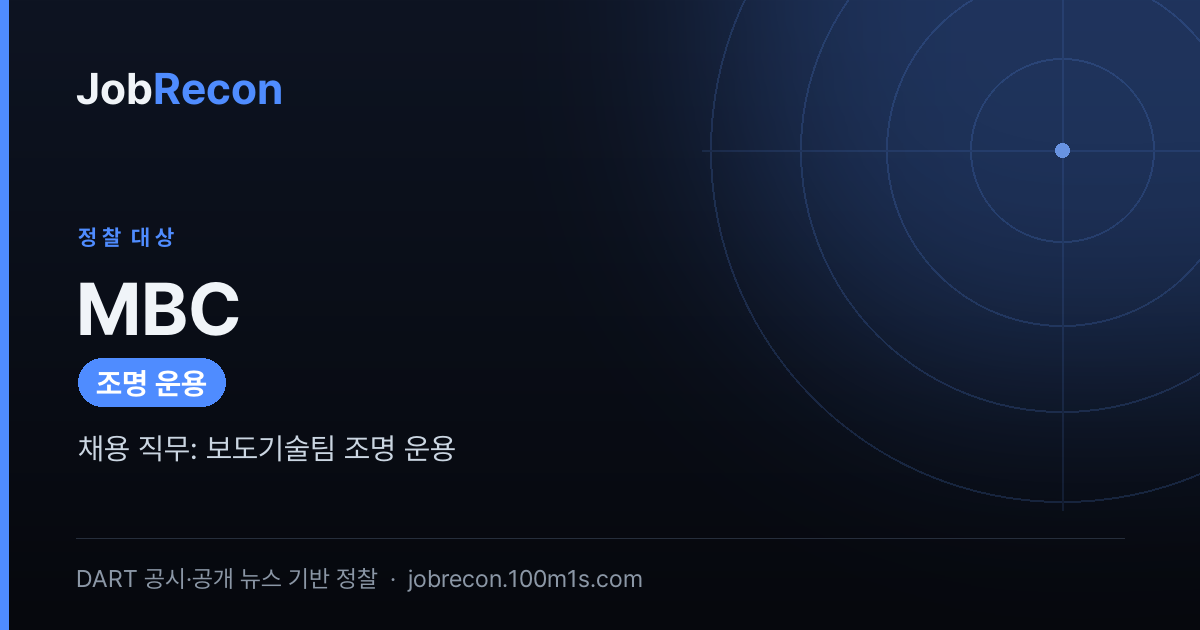
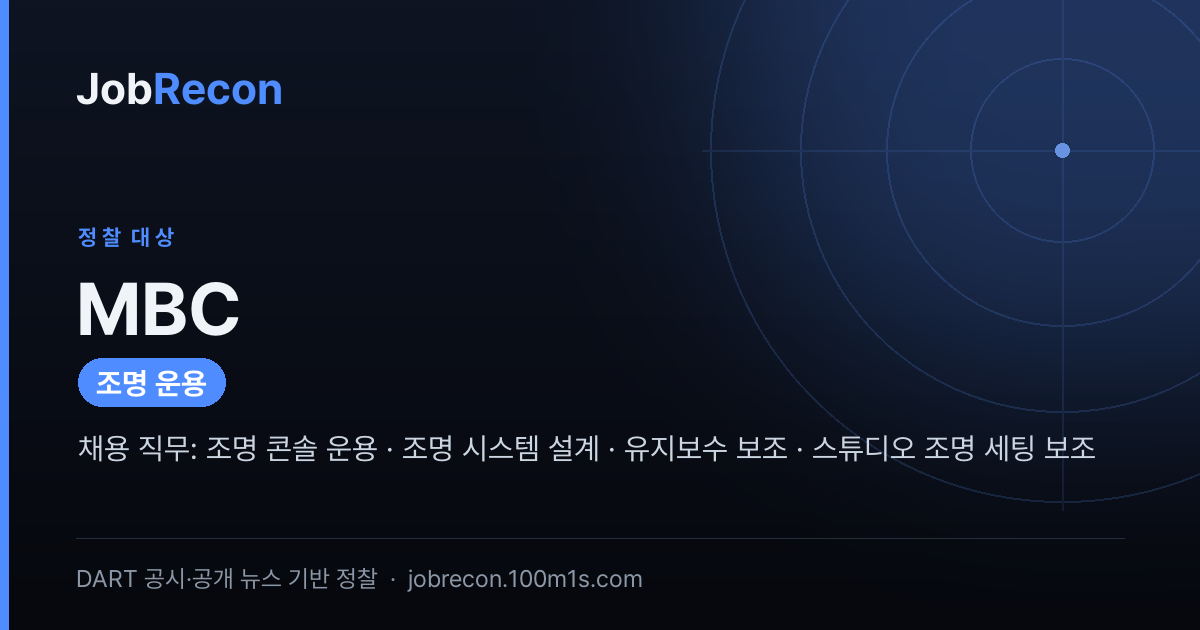
publish: 정찰 페이지 배치 발행 (Phase 2)

Changed region(s): [[0.1542, 0.6937, 0.6475, 0.754], [0.6783, 0.6937, 0.925, 0.754]]

diff --git a/r/mbc-조명-운용-202607.html b/r/mbc-조명-운용-202607.html
@@ -60,6 +60,9 @@ body{margin:0;background:#0b0e13;color:#e6edf3;font-family:-apple-system,BlinkMa
 .comment .cbody code{background:#0b0e13;border:1px solid #222a35;border-radius:5px;padding:1px 5px;font-size:13px}
 .comment .err{color:#ff6b6b}
 .comment .cta-app{display:inline-block;margin-top:8px;color:#4f8cff;font-weight:700;text-decoration:none}
+/* 공고 생존(P0-a): 마감 경고 배너 + D-day/상시 칩. */
+.deadbn{background:#2a1618;border:1px solid #5a2a2e;color:#ffb4b4;border-radius:10px;padding:11px 14px;margin:0 0 14px;font-size:13.5px;font-weight:600;line-height:1.5}
+.ddaybn{display:inline-block;background:#12161d;border:1px solid #2f6b3a;color:#7fe0a0;border-radius:999px;padding:3px 11px;margin:0 0 12px;font-size:12.5px;font-weight:700}
 </style>
 
 </head><body>
@@ -70,84 +73,104 @@ body{margin:0;background:#0b0e13;color:#e6edf3;font-family:-apple-system,BlinkMa
     <div class="meta"><span class="co">MBC</span><span class="fd">조명 운용</span><span class="ym">2026년 07월 정찰</span></div>
     <div class="ad">AD · 광고</div>
   </div>
+  <div class="ddaybn">D-15</div>
   <div id="report"><h2>공고 핵심 요건</h2>
-<p><strong>채용 직무</strong>: 보도기술팀 조명 운용</p>
+<p><strong>채용 직무</strong>: 조명 콘솔 운용 · 조명 시스템 설계·유지보수 보조 · 스튜디오 조명 세팅 보조</p>
 <ul>
-<li><strong>고용형태</strong>: 계약직 1년(평가 후 1년 연장 가능) — 정규직 공채가 아니라 <strong>기간제 계약</strong>이다. 이 한 줄이 이 공고의 성격을 규정한다.</li>
-<li><strong>핵심 업무</strong>: 조명 콘솔 운용(숙직 교대 근무) · 조명 시스템 설계·유지보수 보조 · 스튜디오 조명 세팅 보조. &quot;보조&quot;라는 단어가 반복 — 설계 주도가 아니라 <strong>운용·서포트 포지션</strong>.</li>
-<li><strong>우대(사실상 실질 요건)</strong>: 방송기술 조명 1년 이상 경력 / 지상파·관련방송사 조명 콘솔 운용 유경험자. 자격요건은 병역·국적·해외여행 결격 없음 정도로 낮지만, <strong>콘솔 운용 실무 경험이 사실상 당락을 가른다</strong>.</li>
-<li><strong>전형</strong>: 서류(7.27 발표) → 면접(7.29~31) → 실기·추가과제 가능 → 최종. 입사예정 8월 10일. <strong>실기 언급이 명시</strong>됐으니 콘솔 조작을 눈앞에서 시연할 준비가 필요하다.</li>
-<li><strong>연봉</strong>: &quot;경력·사내 기준 책정, 희망연봉 기재&quot; — 밴드 비공개. 지원서에 본인이 숫자를 써야 하므로 시장가·본인 경력 기준을 미리 정해두라.</li>
-</ul>
-<h2>회사 서사 · 궤적</h2>
-<p>MBC는 스타트업이 아니라 <strong>1961년 라디오로 개국한 주식회사형 공영방송사</strong>다. 지원자가 반드시 알아야 할 것은, 이 회사의 정체성이 &quot;창업자의 비전&quot;이 아니라 <strong>정치 격변에 휩쓸린 소유 이전</strong>에서 시작됐다는 점이다.</p>
-<ul>
-<li><strong>뿌리</strong>: 1959년 부산문화방송(김상용·정환옥) → 1961년 서울에서 김지태가 서울민간방송→한국방송(HBC)→라디오서울→한국문화방송으로 사명을 바꿔가며 라디오 개국(1961.12.2).</li>
-<li><strong>결정적 전환(1962)</strong>: 김지태가 5·16 군사정변 후 부정축재자로 적발돼 <strong>한국문화방송·부산문화방송·부산일보 전 재산을 5·16장학회(현 정수장학회)에 헌납</strong>. 창업자 비전이 아니라 <strong>국가 권력에 의한 소유 이전이 DNA</strong>에 박혔다. 이후 60여 년 지배구조 논쟁은 전부 이 태생에서 비롯한다.</li>
-<li><strong>TV 개국(1969.8.8)</strong>: 정동사옥에서 MBC TV 개국, 상업광고방송 개시. 1971 FM 개국, 《새엄마》 등 드라마로 1974년 TBC 추월.</li>
-<li><strong>정치에 휘둘린 구조 확립</strong>: 1974 박정희 지시로 경향신문과 통합 → 주식회사 문화방송·경향신문 / 1980 언론통폐합·주식 KBS 귀속·컬러방송 / 1981 언론기본법으로 경향신문과 분리·독립 방송체제 / 1982 여의도 사옥.</li>
-<li><strong>현 지배구조 확립(1988.12.26)</strong>: 방송문화진흥법 제정 — <strong>주식 70%를 방송문화진흥회(방문진)가 관리</strong>. 이게 지금의 소유 골격이다.</li>
-<li><strong>상장·디지털</strong>: 2005 종목코드 052220 부여·DMB 개국 / 현재 상암 글로벌미디어센터 본사(일산 드림센터 별도).</li>
-</ul>
-<p><strong>최근 방향(면접 인용 재료)</strong>: 전략 축은 &quot;지상파 광고 쇠퇴 → 글로벌 콘텐츠·FAST 전환&quot;으로 명확하다.</p>
-<ul>
-<li>《피지컬 100》을 넷플릭스에 공급해 공중파를 넘은 글로벌 히트를 실증.</li>
-<li>디즈니+ 오리지널 《킬러들의 쇼핑몰》을 시즌2 직전 지상파 특선으로 확보(2026.7).</li>
-<li>2026년 칸 국제 시리즈 페스티벌에서 《21세기 대군부인》 투자설명회 참가.</li>
-<li>2026.6 방미통위·삼성·LG·방송사 9개사 <strong>K-FAST 간담회 참여</strong>(FAST 시장 2025년 18조→2030년 47조, CAGR 20.9% 전망).</li>
-</ul>
-<p><strong>판정</strong>: 궤적 자체는 탄탄하다(지상파 지위·60년 IP·글로벌 흥행 실증). 다만 정체성 슬로건은 &quot;품격있는 젊은 방송&quot;(2017)→&quot;새로움을 탐험하다&quot;(2018~20)→&quot;만나면 좋은 친구&quot; 회귀(2022~)로 <strong>정권·경영진 교체마다 재설정</strong>되는 패턴이다. 원류 슬로건 &quot;만나면 좋은 친구&quot;만이 수십 년 관통 — 이게 실질 정체성 앵커다. 전략은 있으나 FAST·글로벌 세일즈는 아직 파일럿·설명회 단계로 <strong>실행 초기</strong>임을 냉정히 봐야 한다.</p>
-<h2>실체 점검 · 숨은 리스크 · 실질 보상</h2>
-<p><strong>자산 기반 안정성(고용 안정성의 토대)</strong>: MBC의 체력은 두껍다.</p>
-<ul>
-<li><strong>부동산</strong>: 상암 글로벌미디어센터 본사 + 일산 드림센터 — 자체 사옥·스튜디오 인프라 보유.</li>
-<li><strong>콘텐츠 IP</strong>: 60년 축적 드라마·예능 판권(《대장금》《피지컬 100》 등), 글로벌 세일즈 가능한 라이브러리.</li>
-<li><strong>주파수·지상파 지위</strong>: 방송문화진흥법으로 뒷받침되는 지상파 방송 인허가 — 진입장벽 자체가 자산.</li>
-<li><strong>자회사</strong>: MBC C&amp;I, MBC아트, MBC플러스, 아이엠비씨, MBC아카데미, MBC플레이비.</li>
-</ul>
-<p>→ 자산이 두꺼워 불황·적자에도 쉽게 무너지지 않는 체력. <strong>다만 이건 정규직 조직의 안정성이고, 이 공고는 1년 계약직</strong>이라 회사 체력이 곧 본인 고용 안정으로 직결되지 않는다는 점을 명확히 구분하라.</p>
-<p><strong>실질 보상 · 복리후생(공개 근거)</strong>:</p>
-<ul>
-<li><strong>연봉 밴드 비공개</strong> — 계약직·경력 책정이라 사내 기준에 따름. 정규직 처우와는 별개 트랙으로 봐야 한다.</li>
-<li><strong>공개 평점</strong>: 블라인드 3.2(커리어 3, 워라밸 3.6, 급여 3) / 잡플래닛 2.8(워라밸 3, 복지·급여 2.4, 사내문화·승진 2.6). &quot;다닐 만한 보통 직장&quot; 수준이며 <strong>급여·승진 만족도가 상대적 약점</strong>. 이 평점은 정규직 기준일 가능성이 크고, 계약직 처우는 별도 확인 필요.</li>
-<li><strong>정규직 보상 참고치</strong>: 뉴스에 등장한 한 아나운서 사례에서 &quot;성과급&quot;·연차별 처우 언급이 있으나, 이는 아나운서직 개인 사례이자 회사 지표가 아니므로 <strong>조명 운용 계약직 처우로 오용 금지</strong>. 실질 처우는 지원서 희망연봉·면접에서 직접 확인.</li>
-</ul>
-<p><strong>숨은 리스크</strong>:</p>
-<ul>
-<li><strong>최대 변수 — 지배구조·정권 리스크</strong>: 대주주 방문진 이사가 정치적으로 임명되는 구조라 <strong>사장·경영진이 정권 교체마다 교체</strong>된다. &quot;언론 독립&quot;은 제도상 설계지 실제 보장이 아니다. 다만 조명 운용 같은 기술직은 편성·보도 방향 논란의 직접 영향권 밖이라 정치 리스크 체감은 상대적으로 낮다.</li>
-<li><strong>광고 매출 하락 압박</strong>: 지상파 광고 시장 축소는 업계 공통 리스크. MBC 매출·영업이익·광고 감소폭 수치는 미확인 — <strong>면접에서 보도기술 부문 예산·인력 계획을 확인</strong>하라. 광고 쇠퇴가 구조조정으로 번지면 <strong>계약직이 가장 먼저 흔들리는 자리</strong>다.</li>
-<li><strong>노조 강세</strong>: 언론노조 MBC본부가 교섭대표노조로 영향력이 크다. 입사 후 노사구조 이해가 필수이나, 계약직은 노조 보호 밖일 수 있다.</li>
-</ul>
-<p><strong>한 걸음 더 — 사업 구조상 진짜 위험/해자</strong>: MBC의 해자는 지상파 지위·60년 IP·자체 인프라다. 그러나 진짜 포식자는 KBS·SBS가 아니라 <strong>넷플릭스 등 OTT/FAST</strong>로, 지상파가 최상위 포식자에서 제작·공급자로 밀리는 중이다. 조명 운용 직무 관점에선 <strong>스튜디오·콘솔 인프라가 유지되는 한 수요는 존재</strong>하나, 계약직 연장 여부는 회사 실적·부문 예산에 종속된다. → <strong>무엇이 확인되면 판단이 바뀌나</strong>: 보도기술 부문의 최근 3년 인력 증감·계약직 정규직 전환 사례가 확인되면 이 자리의 실질 안정성이 크게 명확해진다.</p>
-<h2>산업·시장·경쟁 지형</h2>
-<ul>
-<li><strong>산업 규모·성장성 — 양면</strong>: 전통 지상파 광고 시장은 <strong>정체·축소</strong>하는 파이다. 반대로 MBC가 진입 중인 FAST 시장은 2025년 18조→2030년 47조(CAGR 20.9%)로 <strong>커지는 파이</strong>. 문제는 MBC가 아직 후자에서 실질 매출을 증명하지 못했다는 것. → 지원자에겐 &quot;안정적 대형 방송사이나 성장 동력은 전환 진행형&quot;이라는 이중 신호.</li>
-<li><strong>실질 순위·지위</strong>: 지상파 3사(KBS·SBS)와의 <strong>과점 구도 안 강자</strong>. 《피지컬 100》 넷플릭스 흥행처럼 글로벌 세일즈 실적을 낸 몇 안 되는 지상파. 다만 전체 콘텐츠 시장으로 넓히면 OTT에 밀리는 <strong>팔로워</strong>로 재편 중.</li>
-<li><strong>경쟁사·격차</strong>: 전통 경쟁은 KBS(수신료 기반, 더 안정적 재원)·SBS(민영). 재원 구조상 MBC는 <strong>광고 의존도가 높아 경기·정권에 더 민감</strong>하다. 실질 위협은 넷플릭스·디즈니+ 같은 글로벌 OTT — MBC는 이들에 콘텐츠를 공급하며 공생하되, 플랫폼 주도권은 내준 형국. 격차 방향은 플랫폼 권력이 OTT로 <strong>벌어지는 중</strong>.</li>
-<li><strong>시장 구조</strong>: 지상파는 소수 지배 과점 → <strong>강자에 속하면 든든하나 혁신·성장은 둔화</strong> 위험. 방송기술·조명 같은 인프라 직무는 이 과점 구조 덕에 수요가 안정적으로 유지된다는 게 지원자에겐 오히려 플러스.</li>
-<li><strong>정성 판정</strong>: MBC는 <strong>전통 시장에선 이기는 쪽(과점 강자), 새 시장에선 아직 밀리는 쪽(OTT 하위 공급자)</strong>이다. 발목은 광고 의존 재원과 정권 종속 지배구조, 해자는 지상파 지위·IP·자체 스튜디오. → 조명 운용 직무 관점에선 <strong>회사가 완전히 흔들릴 산업은 아니되, 계약 연장은 부문 예산에 달렸다</strong>. 면접에서 &quot;보도기술 부문의 FAST·글로벌 제작 확대가 스튜디오 인력 수요로 이어지는가&quot;를 물으면 산업 이해를 증명할 수 있다.</li>
-</ul>
-<h2>경영진 · 투자자·소유 구조</h2>
-<ul>
-<li><strong>대표</strong>: 사장 <strong>안형준</strong>. 방문진이 선임·감시하는 구조라 사장 임기는 <strong>방문진 이사회 구성(=정치 지형)에 연동</strong>된다.</li>
-<li><strong>C레벨·핵심 임원</strong>: 콘텐츠총괄부사장 등 개인 이름·배경은 공개 정보 미확인 — 면접 확인 대상.</li>
-<li><strong>방문진 이사 구성의 최근 동향(면접 인용 재료)</strong>: MBC 시청자위 몫 방문진 이사 후보로 강형철(숙명여대 미디어학부 교수), 김경달(블루닷AI 공동 창업자), 김영희(전 한겨레 편집인), 노영란(매비우스 사무국장), 신종원(전 한국소비자분쟁조정위원장), 윤순진(서울대 환경대학원장), 이규정(경기대 미디어영상학과) 등이 거론됐다. 이 이사회가 사장·경영 방향을 결정하는 상위 구조다.</li>
-<li><strong>소유·지배 구조</strong>: 개인 대주주 없음. <strong>방송문화진흥회 70% + 정수장학회 30%</strong>. 방문진은 방송문화진흥법에 근거한 비영리 공적 재단이다.</li>
-<li><strong>의미</strong>: 벤처식 &quot;투자자 회수 vs 창업자 비전&quot; 긴장이 없다. 대신 <strong>광고 매출 하락 압박 vs 공영방송 콘텐츠 책무</strong>의 긴장, 그리고 <strong>정권 교체 → 방문진 이사 교체 → 사장 교체</strong>의 정치 사이클이 최대 변수다.</li>
-<li><strong>체력</strong>: 배당·엑싯 압력이 없어 안정적이나, 광고 자립이 핵심이라 광고 시장 축소가 곧 경영 압박. 재무 수치는 미공개 → <strong>면접에서 최근 실적·부문 예산 확인</strong>.</li>
-<li><strong>정렬 인사이트</strong>: 경영진이 그리는 미래(&quot;글로벌 미디어 그룹·FAST 전환&quot;)와 소유 구조가 시사하는 방향(&quot;공영성·정치 중립·광고 자립&quot;)은 <strong>긴장 관계</strong>다. 상업적 생존과 공적 사명이 한 몸에 얹혀 있고, 그 위에 정권 사이클이 얹힌다. → <strong>계약직 기술직 지원자에게 실질 시그널</strong>: 이 정치·재원 긴장은 편성·보도직을 흔들지 조명 운용 실무를 직접 흔들진 않는다. 다만 광고 압박이 커지면 계약직 규모가 조정 1순위이므로, <strong>본인 가치는 &quot;정치와 무관한 콘솔 운용 숙련&quot;으로 증명하는 게 가장 안전한 포지셔닝</strong>이다.</li>
-</ul>
-<h2>용어 · 개념 풀이</h2>
-<ul>
-<li><strong>FAST (Free Ad-supported Streaming TV)</strong> — 광고 기반 무료 실시간 스트리밍 TV. MBC가 지상파 광고 쇠퇴를 대체할 성장 축으로 참여 중인 시장(2030년 47조 전망).</li>
-<li><strong>방송문화진흥회(방문진)</strong> — 방송문화진흥법에 근거해 MBC 주식 70%를 관리하는 비영리 공적 재단. 사장 선임·감시권을 가진 실질 지배주체이며, 이사 구성이 정치 지형에 연동된다.</li>
-<li><strong>정수장학회</strong> — 5·16장학회의 후신으로, 1962년 김지태 재산 헌납으로 MBC 지분을 갖게 된 재단. 현재 MBC 지분 30% 보유.</li>
-<li><strong>조명 콘솔</strong> — 스튜디오 조명을 통합 제어하는 조작 장비. 이 공고의 핵심 실무이자 실기시험 대상.</li>
-<li><strong>주식회사형 공영방송</strong> — 상법상 주식회사 형태이나 공적 재단이 지배하는 구조. 광고로 운영하되 공영성 의무를 지는 MBC 특유의 이중 성격.</li>
-<li><strong>CAGR (연평균 성장률)</strong> — 여러 해에 걸친 평균 성장 속도. FAST 시장 20.9%는 빠른 성장 산업임을 뜻한다.</li>
+<li><strong>고용 형태</strong>: 계약직 1년, 평가 후 1년 연장 가능 (공고 명시). 정규직 전환 언급이 없다는 점이 핵심 — &quot;연장 가능&quot;까지가 회사가 약속한 상한선입니다.</li>
+<li><strong>근무 형태</strong>: 조명 콘솔 운용에 <strong>숙직 교대 근무</strong> 포함 (공고 명시). 보도(뉴스) 스튜디오는 밤·새벽 방송이 있어 야간 상주가 상수라는 뜻입니다.</li>
+<li><strong>필수 자격</strong>: 병역필/면제, 대한민국 국적자, 해외여행 결격사유 없음 (공고 명시). 직무 기술요건이 아닌 신원·결격 조건만 필수로 걸린 점이 특이 — 즉 <strong>경력·자격증을 필수로 잠그지 않았습니다</strong>.</li>
+<li><strong>우대</strong>: 방송기술 조명 1년 이상 경력, 지상파·관련방송사 <strong>조명 콘솔 운용 유경험</strong>, 취업보호대상자·장애인 (공고 명시). 실무의 무게중심은 &#x27;콘솔 운용 경험&#x27;에 있습니다.</li>
+<li><strong>연봉</strong>: 경력·사내 기준에 따라 책정, <strong>지원서에 희망연봉 기재</strong> (공고 명시) — 밴드가 공개되지 않아 본인이 먼저 숫자를 던져야 하는 구조입니다.</li>
 </ul>
 <p>---</p>
-<p><strong>한 줄 요약</strong>: MBC 자체는 자산·지위가 두꺼운 대형 공영방송이나, 이 공고는 <strong>1년 계약직 조명 운용</strong>이라 회사 체력이 곧 본인 안정으로 직결되지 않는다. 콘솔 운용 실무 경력(실기)이 당락을 가르며, 정치·재원 리스크는 기술직 체감이 낮은 대신 <strong>광고 압박 시 계약직 조정 위험</strong>이 실질 변수다. 면접에선 ①계약직 정규직 전환·연장 실적 ②보도기술 부문 예산·인력 계획 ③계약직 처우(연봉 밴드)를 반드시 확인하라.</p></div>
+<h2>회사 서사 · 궤적</h2>
+<p>MBC(문화방송)는 스타트업식 &quot;페인포인트 해결&quot;로 태어난 회사가 아니라, <strong>한국 방송사(史)의 정치적 굴곡 그 자체</strong>로 출발한 조직입니다. 뿌리는 두 갈래입니다.</p>
+<ul>
+<li><strong>1959년 4월 15일</strong>, 개인사업가 김상용과 방송기술자 정환옥이 한국 최초의 상업 라디오 <strong>부산문화방송</strong>을 개국했습니다(계열 최초 방송국).</li>
+<li><strong>1961년</strong>, 김지태가 서울에서 &#x27;서울민간방송&#x27;을 세운 뒤 한국방송(HBC)→라디오서울→한국문화방송으로 사명을 바꿔 12월 2일 라디오를 개국했습니다. 그러나 김지태는 <strong>5·16 군사정변 후 부정축재자로 적발돼 1962년 한국문화방송·부산문화방송·부산일보 전 재산을 5·16장학회(현 정수장학회)에 헌납</strong>했습니다.</li>
+</ul>
+<p>즉 창업 서사의 핵심은 &quot;민간 상업방송으로 태어났으나 정권에 의해 소유구조가 강제로 재편된 역사&quot;입니다. 지원자 관점에서 이 회사의 정체성·리스크는 시장 경쟁이 아니라 <strong>정치·지배구조에 뿌리를 둔다</strong>는 뜻입니다. 창업자 개인의 비전이 조직 DNA로 이어지는 구조가 아닙니다.</p>
+<p><strong>연혁의 전환점</strong>(계기 → 무엇이 바뀌었나):</p>
+<ul>
+<li><strong>1969.8.8 TV 개국</strong>(상업광고방송 실시): 라디오 사업자에서 종합 방송사로 전환. 이후 1971년 FM 개국, 《새엄마》 등 드라마 히트로 시청률 우위를 잡았습니다.</li>
+<li><strong>1974년</strong>, 박정희 지시로 경향신문과 통합 → &#x27;문화방송·경향신문&#x27; — 정권 개입이 소유·조직을 직접 재편한 사건.</li>
+<li><strong>1980년 언론통폐합</strong>: 대기업 지분 회수, KBS가 주식 관리, 컬러방송 시작. 이 시점에 <strong>민영 → 공영으로 전환</strong>됐습니다.</li>
+<li><strong>1988.12.26 방송문화진흥법 제정 → 방송문화진흥회(방문진)가 주식 70% 관리</strong>: 오늘날의 지배구조가 여기서 확립됐습니다. 이것이 MBC를 이해하는 뼈대입니다.</li>
+<li><strong>상암 시대</strong>: 서울 마포구 상암동 글로벌미디어센터로 본사 이전(이번 조명 직무의 물리적 근무지가 될 가능성이 높은 곳). 일산에 MBC 드림센터 별도 보유.</li>
+<li><strong>2020년대 OTT 대응</strong>: <strong>《피지컬 100》을 제작해 넷플릭스에 공급</strong>하며 공중파를 넘어 글로벌 히트를 냈고, <strong>《21세기 대군부인》으로 2026년 4월 칸 국제 시리즈 페스티벌 투자설명회</strong>에 참가했습니다.</li>
+</ul>
+<p><strong>미션·비전의 일관성</strong>: 사시(자유·책임·품위·단합)는 <strong>2018년 이후 홈페이지에서 사라졌고</strong>, 현재는 Vision &quot;콘텐츠 중심의 글로벌 미디어 그룹&quot;, Mission &quot;상상력과 창의성으로 시청자의 삶을 더 풍성하게&quot;, Values(시청자 first·창의성·공정성·공영성)를 내겁니다. 슬로건은 &quot;만나면 좋은 친구&quot;(2022~현재)로 회귀했으나, 연중 캠페인 문구는 거의 매년 바뀝니다(2018 &quot;다시 좋은 친구&quot; → 2021 &quot;GO! MBC&quot; → 2025 &quot;평화와 미래&quot; → 2026 &quot;사람이 소중한 사회&quot;). <strong>정권·사장 교체마다 톤이 흔들려 온 흔적</strong>입니다.</p>
+<p><strong>판정</strong>: 궤적은 버즈워드 나열이 아니라 인과가 분명한 서사입니다. 다만 그 인과의 동력이 시장(제품·경쟁)이 아니라 <strong>정치·제도</strong>라는 점이 이 회사의 본질입니다. &quot;콘텐츠 중심 글로벌 미디어 그룹&quot;이라는 상업적 비전과 &quot;공영성&quot;이라는 정체성이 <strong>한 문장 안에 병존</strong>하는 근본 긴장이 그대로 서사에 박혀 있습니다.</p>
+<p>---</p>
+<h2>실체 점검 · 숨은 리스크 · 실질 보상</h2>
+<p><strong>검증된 실적</strong></p>
+<ul>
+<li>✅ <strong>《피지컬 100》 넷플릭스 공급</strong> — 공중파를 넘어선 글로벌 흥행 실증. 지상파 콘텐츠가 OTT에서 통한다는 걸 보여준 대표 레퍼런스입니다.</li>
+<li>✅ <strong>독립적 지배구조 모델</strong> — YTN 정상화 논의에서 &quot;가장 완벽하고 독립적인 지배구조는 MBC 모델&quot;로 외부 인용될 만큼 제도적으로 정착.</li>
+<li>⚠️ <strong>글로벌 미디어 그룹 비전</strong> — 칸 투자설명회는 &#x27;참가·발표&#x27; 단계일 뿐, 실제 회수·수출 규모는 미확인(지향에 머묾).</li>
+<li>⚠️ <strong>FAST(광고 기반 무료 실시간 TV) 신사업</strong> — 2026년 방미통위 &#x27;K-FAST 생태계&#x27; 간담회에 KBS·SBS 등과 함께 9개 방송사 중 하나로 참여했으나, 전용 콘텐츠·수익화는 파일럿 이전 수준입니다.</li>
+</ul>
+<p><strong>재무 상태(방향)</strong>: MBC는 시청료(수신료)를 받지 않고 <strong>전액 광고 수익으로 운영</strong>하는 구조입니다. 이것이 이 회사의 재무를 이해하는 결정적 열쇠입니다 — KBS와 달리 안정적 수신료 방패가 없어, <strong>지상파 광고 시장이 축소되는 국면에서 재무 압박에 직접 노출</strong>됩니다. 구체 매출·손익 수치는 공개 근거로 확인되지 않아 <strong>면접에서 반드시 확인</strong>해야 합니다(적자 여부·구조조정 신호). 다만 방문진 70% 지배의 공적 소유구조 특성상, 완전 도산 리스크보다는 <strong>인건비·비정규 규모 조정 압박</strong>으로 나타날 가능성이 큽니다 — 이 직무가 계약직이라는 점과 직결되는 대목입니다.</p>
+<p><strong>자산 기반 안정성(고용 안정성의 토대)</strong></p>
+<ul>
+<li><strong>부동산·인프라</strong>: 서울 상암동 글로벌미디어센터(본사 사옥), 일산 MBC 드림센터 — 자체 사옥·스튜디오·방송설비라는 두꺼운 유형자산을 보유. 조명 콘솔·스튜디오 설비 자체가 이 직무의 일터입니다.</li>
+<li><strong>콘텐츠·IP·판권</strong>: 수십 년 축적된 드라마·예능 라이브러리와 《피지컬 100》 같은 신규 IP. 글로벌 유통으로 현금화 여지가 있는 자산입니다.</li>
+<li><strong>라이선스·주파수</strong>: 지상파 방송 면허·주파수라는 <strong>진입장벽 자체가 자산</strong>입니다. 이 인허가는 신규 사업자가 복제할 수 없습니다.</li>
+<li><strong>계열 지분</strong>: MBC C&amp;I, MBC아트, MBC플러스, 아이엠비씨, MBC아카데미, MBC플레이비 등 계열사.</li>
+<li>해석: 자산은 두껍습니다 → <strong>불황·적자에도 회사가 소멸하지 않고 버티는 체력</strong>은 있습니다. 그러나 그 체력이 <strong>계약직 개인의 재계약·정규직 전환까지 보장하지는 않습니다</strong>. 회사는 살아남되, 조정의 칼날은 비정규·계약 인력에 먼저 닿는 구조라는 점을 분리해서 봐야 합니다.</li>
+</ul>
+<p><strong>실질 보상 · 복리후생</strong></p>
+<ul>
+<li>이번 공고는 <strong>연봉 밴드 비공개 + 희망연봉 자기 기재</strong> 방식입니다. 즉 회사 내부 기준은 있으나 지원자에게 먼저 노출하지 않습니다. <strong>본인 시장가를 조사해 희망 숫자를 방어할 근거(경력·콘솔 기종 경험)를 준비</strong>하는 것이 실전 대응입니다.</li>
+<li>정규직 아나운서·직군의 처우는 공개 일화상 대기업 반도체와 비교될 만큼 낮지 않다는 언급이 돌지만(정규직 기준), 이는 <strong>계약직 조명 운용 직무와는 처우 체계가 다른 정규직 이야기</strong>이므로 개인 기대치로 오용하면 안 됩니다.</li>
+<li>회사 전반 보상수준·복지(재택·성과급·주거지원 등)의 공개 수치는 신뢰할 근거가 확인되지 않아 <strong>&quot;확인 필요&quot;</strong> — 특히 계약직 처우, 숙직 수당·야간 근무 보상 체계는 면접에서 직접 물어야 합니다.</li>
+</ul>
+<p><strong>숨은 리스크</strong></p>
+<ul>
+<li><strong>정치·지배구조 리스크(구조적)</strong>: 사장이 방문진에 의해 선임되는 임명직이라, <strong>정권 교체마다 최고경영진·편성 방향이 흔들립니다</strong>. 실제로 &#x27;MBC 블랙리스트 의혹&#x27;(최승호 전 사장 항소심 벌금형), 경남MBC PD의 &#x27;무섭노&#x27; 발언 논란, 언론노조 대 제3노조 갈등 등 정치·노사 관련 소음이 상시 존재합니다. 조명 운용 같은 기술 직무는 편성·보도 정치와 직접 연결되진 않지만, <strong>회사 전체의 예산·인력 정책이 정치 주기에 종속</strong>된다는 점은 계약 연장에 간접 영향을 줍니다.</li>
+<li><strong>광고 의존 + OTT 잠식(사업 구조)</strong>: 수신료 없이 광고로만 버는데, 시청·광고 기반이 넷플릭스 등 OTT로 이탈하고 있습니다. 파이가 줄면 비정규 인력이 먼저 압박받습니다.</li>
+<li><strong>계약직 특성</strong>: &quot;1년 + 평가 후 1년 연장&quot;이 상한선이며 정규직 전환 경로가 공고에 없습니다. 이건 리스크라기보다 <strong>처음부터 명확히 설정해야 할 기대치</strong>입니다.</li>
+</ul>
+<p><strong>사업 구조상 진짜 위험/해자</strong>: MBC의 해자는 <strong>지상파 면허·주파수·자체 스튜디오라는 복제 불가 인프라</strong>입니다(신규 진입 불가). 반면 진짜 위험은 <strong>수익 엔진이 광고 단 하나</strong>라는 점 — 규모가 커진다고 마진이 개선되는 구조가 아니라, 광고 파이 자체가 OTT로 새는 구조입니다. 이 위험이 완화되려면 글로벌 콘텐츠 판매·FAST 수익화가 실제 매출로 잡혀야 하는데, 아직 지향 단계입니다. <strong>면접에서 광고 매출 추세와 신사업 매출 기여를 확인하면 이 판단의 확신도가 올라갑니다.</strong></p>
+<p>---</p>
+<h2>산업·시장·경쟁 지형</h2>
+<p><strong>산업 규모·성장성</strong>: MBC가 속한 전통 지상파 방송·광고 시장은 <strong>정체·축소</strong> 국면입니다. 시청·광고가 OTT로 이동하고 있기 때문입니다. 반면 회사가 새로 노리는 <strong>FAST(광고 기반 무료 실시간 TV) 시장은 2025년 18조원 → 2030년 47조원(연평균 20.9%) 성장</strong>이 전망되는 파이입니다. 즉 <strong>본진(지상파 광고)은 줄고, 신전장(FAST·글로벌 콘텐츠)은 커지는</strong> 이중 구조입니다. 지원자에게 이것은 — 회사가 성장 산업에 올라타려 하지만 <strong>아직 본진 축소 속도가 신사업 성장보다 빠른 과도기</strong>라는 뜻이며, 이 과도기에 비용(특히 비정규 인건비)이 압박받기 쉽다는 신호입니다. 다만 FAST의 SAM·SOM(MBC가 실제 가져갈 유효·현실 몫)은 근거로 특정되지 않아 <strong>확인 필요</strong>입니다.</p>
+<p><strong>이 회사의 실질 순위·지위</strong>: 지상파 3사(KBS·MBC·SBS)의 한 축으로, <strong>레거시 방송에서는 확고한 상위 플레이어</strong>입니다. 콘텐츠 경쟁력으로는 《피지컬 100》(넷플릭스), 《유부녀 킬러》(공효진 15년 만의 MBC 복귀 금토드라마), 《킬러들의 쇼핑몰》 특선 편성 등 <strong>드라마·예능 IP 파워는 여전히 살아 있습니다</strong>. 그러나 광고·시청 점유의 절대량 순위는 OTT 포함 시 밀리는 방향입니다.</p>
+<p><strong>주요 경쟁사·경쟁제품과 격차</strong></p>
+<ul>
+<li><strong>직접 경쟁</strong>: KBS·SBS(지상파). KBS는 수신료라는 안정적 방패가 있어 MBC보다 재무 방어력이 구조적으로 강합니다 — MBC의 광고 100% 의존이 상대적 약점입니다.</li>
+<li><strong>확장 경쟁</strong>: JTBC 등 종편.</li>
+<li><strong>최상위 위협</strong>: <strong>넷플릭스·디즈니+ 등 OTT</strong>. &quot;공중파를 뛰어넘어 콘텐츠 시장 최상위 포식자&quot;가 된 OTT에 광고·시청 기반을 잠식당하는 구조이며, 격차는 <strong>좁혀지기보다 벌어지는 방향</strong>입니다. 다만 MBC는 그 OTT에 콘텐츠를 <strong>공급하는 파트너</strong>이기도 해서(피지컬 100 넷플릭스, 킬러들의 쇼핑몰 디즈니+ 확보), 순수 적대 관계라기보다 <strong>적이자 유통 채널</strong>이라는 이중성이 있습니다.</li>
+</ul>
+<p><strong>시장 구조</strong>: 지상파는 소수(3사) 과점 구조입니다. 구직자 양면으로 보면 — 과점이라 <strong>강자에 속하면 브랜드·인프라 안정성</strong>이 있으나, <strong>정체·혁신 둔화</strong>와 정치 종속이라는 그늘이 함께 옵니다.</p>
+<p><strong>정성 판정</strong>: MBC는 <strong>레거시 지상파에서는 이기는 쪽, 미래 콘텐츠 시장에서는 밀리지 않으려 분투하는 쪽</strong>입니다. 해자는 면허·인프라·IP 제작력, 발목은 <strong>광고 단일 수익원 + 정치 종속 + OTT 잠식</strong>입니다. 이 직무(조명 운용)는 방송 제작 인프라의 물리적 토대에 붙는 일이라, 회사가 방송 제작을 지속하는 한 <strong>직무 자체의 수요는 유지</strong>됩니다 — 다만 계약직이라 그 수요가 정규직 자리로 이어지느냐는 별개입니다. <strong>면접에서 &quot;조명 운용 인력의 정규직 전환 사례·재계약률&quot;과 &quot;제작 물량(스튜디오 가동) 추세&quot;를 물으면</strong> 이 판단의 확신도가 결정적으로 올라갑니다.</p>
+<p>---</p>
+<h2>경영진 · 투자자·소유 구조</h2>
+<p><strong>대표·경영진</strong>: 사장은 <strong>안형준</strong>으로 파악되나, 사장직 최신 재임 여부는 <strong>면접 전 재확인 필요</strong>합니다(정권 주기에 따라 교체되는 자리라 시점 확인이 중요합니다). 조직은 대표이사 사장 아래 <strong>콘텐츠총괄부사장</strong> 체계입니다.</p>
+<p><strong>소유·지배 구조 — 이 회사의 핵심</strong>: MBC는 벤처 투자를 받은 회사도, 오너가 지배하는 회사도 아닙니다.</p>
+<ul>
+<li><strong>방송문화진흥회(방문진) 70% / 재단법인 정수장학회 30%.</strong></li>
+<li>배당·회수를 노리는 벤처·전략적 투자자가 없는 <strong>비영리 공적 재단 소유구조</strong>입니다. 따라서 &quot;투자자 회수 전략 vs 창업자 비전&quot;이라는 통상적 스타트업 프레임이 적용되지 않습니다.</li>
+<li><strong>사장은 방문진이 선임</strong>합니다. 즉 최고경영진은 창업자·오너가 아니라 <strong>정치 지형에 따라 교체되는 임명직</strong>입니다. 이것이 일반 기업과 결정적으로 다른 지점 — <strong>C레벨 안정성·전략 연속성이 정권 주기에 종속</strong>됩니다.</li>
+<li><strong>정수장학회 30% 지분</strong>은 그 자체로 역사적·정치적 뇌관(5·16 헌납 이력)입니다.</li>
+<li><strong>노조</strong>: 언론노조 MBC본부(교섭대표노조)가 편성·보도 독립성 이슈에서 강한 발언권을 가지며, 별도로 제3노조가 존재해 노노 갈등이 상시화돼 있습니다.</li>
+</ul>
+<p><strong>규모</strong>: 약 1,496명(2023) 수준.</p>
+<p><strong>정렬 인사이트</strong>: MBC의 실제 긴장 축은 벤처식 &quot;투자자 vs 창업자&quot;가 아니라 — <strong>① 공영성(방문진)이라는 정체성 vs ② 광고로 벌어야 하는 상업적 생존, 그리고 ③ 정치 지형 변화에 따른 지배구조 흔들림</strong>의 삼각 긴장입니다. 경영진이 그리는 &quot;글로벌 미디어 그룹&quot; 비전과, 소유 구조가 요구하는 &quot;공적 미션·정치 중립&quot;이 <strong>한 몸 안에서 계속 당깁니다</strong>. 지원자에게 주는 시그널: 이 회사에서 개인의 안정은 회사의 성장률이 아니라 <strong>회사 재무(광고)와 정치 환경</strong>이라는, 개인이 통제 불가능한 두 변수에 크게 좌우됩니다. 계약직이라면 그 변수의 영향을 정규직보다 더 직접적으로 받습니다 — <strong>재계약 판단이 순수 실력 평가일지, 예산·정책 변수에 얽힐지를 면접에서 짚어보는 것</strong>이 현실적입니다.</p>
+<p>---</p>
+<h2>용어 · 개념 풀이</h2>
+<ul>
+<li><strong>조명 콘솔</strong> — 스튜디오 조명 장비 전체를 제어하는 통합 제어반(믹서). 이 직무의 핵심 장비이며, 공고 우대사항의 &quot;콘솔 운용 유경험&quot;이 곧 실무 채용 포인트입니다.</li>
+<li><strong>숙직 교대 근무</strong> — 야간에 방송국에 상주하며 교대로 근무하는 형태. 뉴스는 새벽·심야 방송이 있어 조명 운용에 야간 상주가 필수입니다.</li>
+<li><strong>방송문화진흥회(방문진)</strong> — 방송문화진흥법(1988)에 근거해 MBC 주식 70%를 관리하는 공적 관리기구. 사장 선임 권한을 가져 MBC 지배구조의 정점입니다.</li>
+<li><strong>정수장학회</strong> — 옛 5·16장학회. MBC 지분 30%를 보유한 재단으로, 그 자체가 역사적·정치적 논쟁의 대상입니다.</li>
+<li><strong>FAST(Free Ad-supported Streaming TV)</strong> — 광고를 보는 대신 무료로 시청하는 실시간 스트리밍 채널. MBC 등 지상파가 광고 의존 탈피와 신규 수익원으로 노리는 성장 시장(2025년 18조 → 2030년 47조원 전망).</li>
+<li><strong>OTT(Over-The-Top)</strong> — 인터넷으로 콘텐츠를 제공하는 스트리밍 서비스(넷플릭스·디즈니+ 등). MBC의 최상위 경쟁 위협이자 동시에 콘텐츠 공급 채널.</li>
+<li><strong>지상파</strong> — 전파(주파수)를 통해 무료 송출하는 전통 방송(KBS·MBC·SBS). 면허·주파수 자체가 진입장벽이자 자산입니다.</li>
+<li><strong>수신료</strong> — 시청자에게 걷는 공영방송 재원(KBS). MBC는 이것이 없어 <strong>광고 100% 의존</strong>이며, 이 차이가 재무 방어력의 구조적 격차를 만듭니다.</li>
+<li><strong>TAM/SAM/SOM</strong> — 전체 시장 규모(TAM)·실제로 노리는 유효 시장(SAM)·현실적으로 먹을 수 있는 몫(SOM). FAST 47조원은 TAM 성격이며, MBC의 실제 몫(SAM·SOM)은 별도 확인이 필요합니다.</li>
+</ul></div>
   <div class="ad">AD · 광고</div>
   <div class="cta-sub">이 회사, 내 이력으론 지원할 가치가 있을까?</div>
   <a class="cta" href="https://jobrecon.100m1s.com">내 이력으로 적합도·평결 받기 →</a>